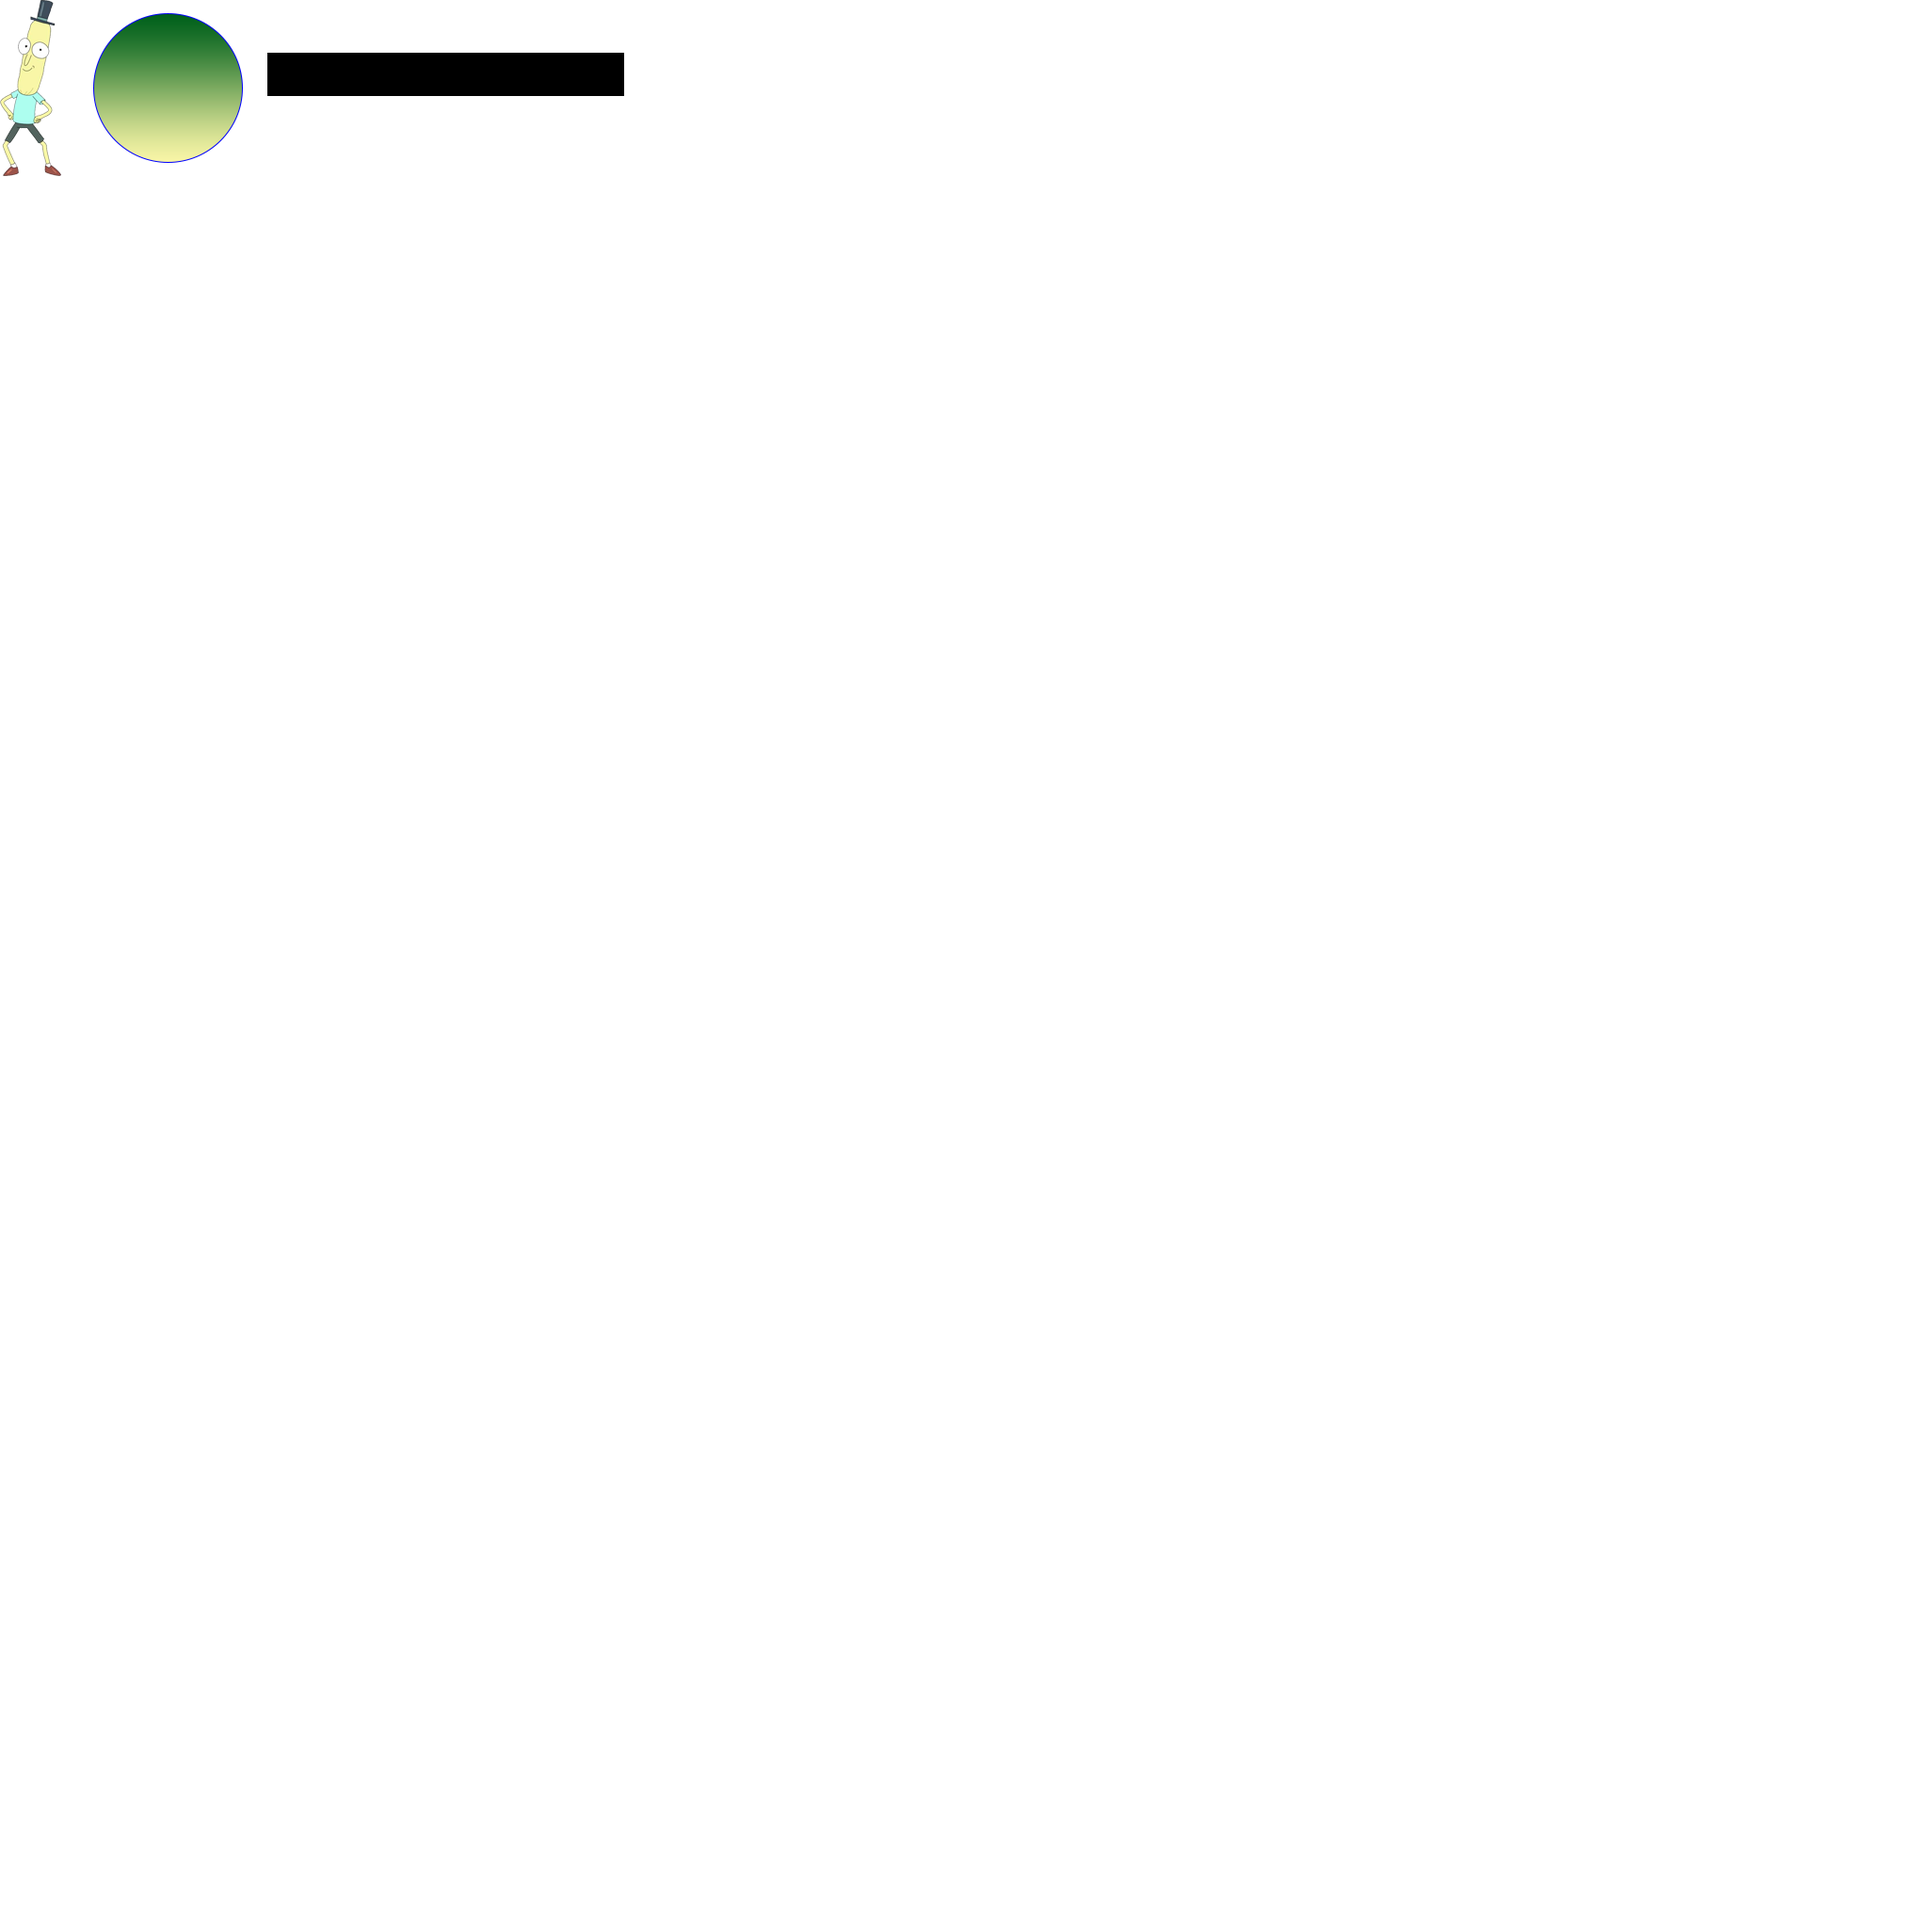
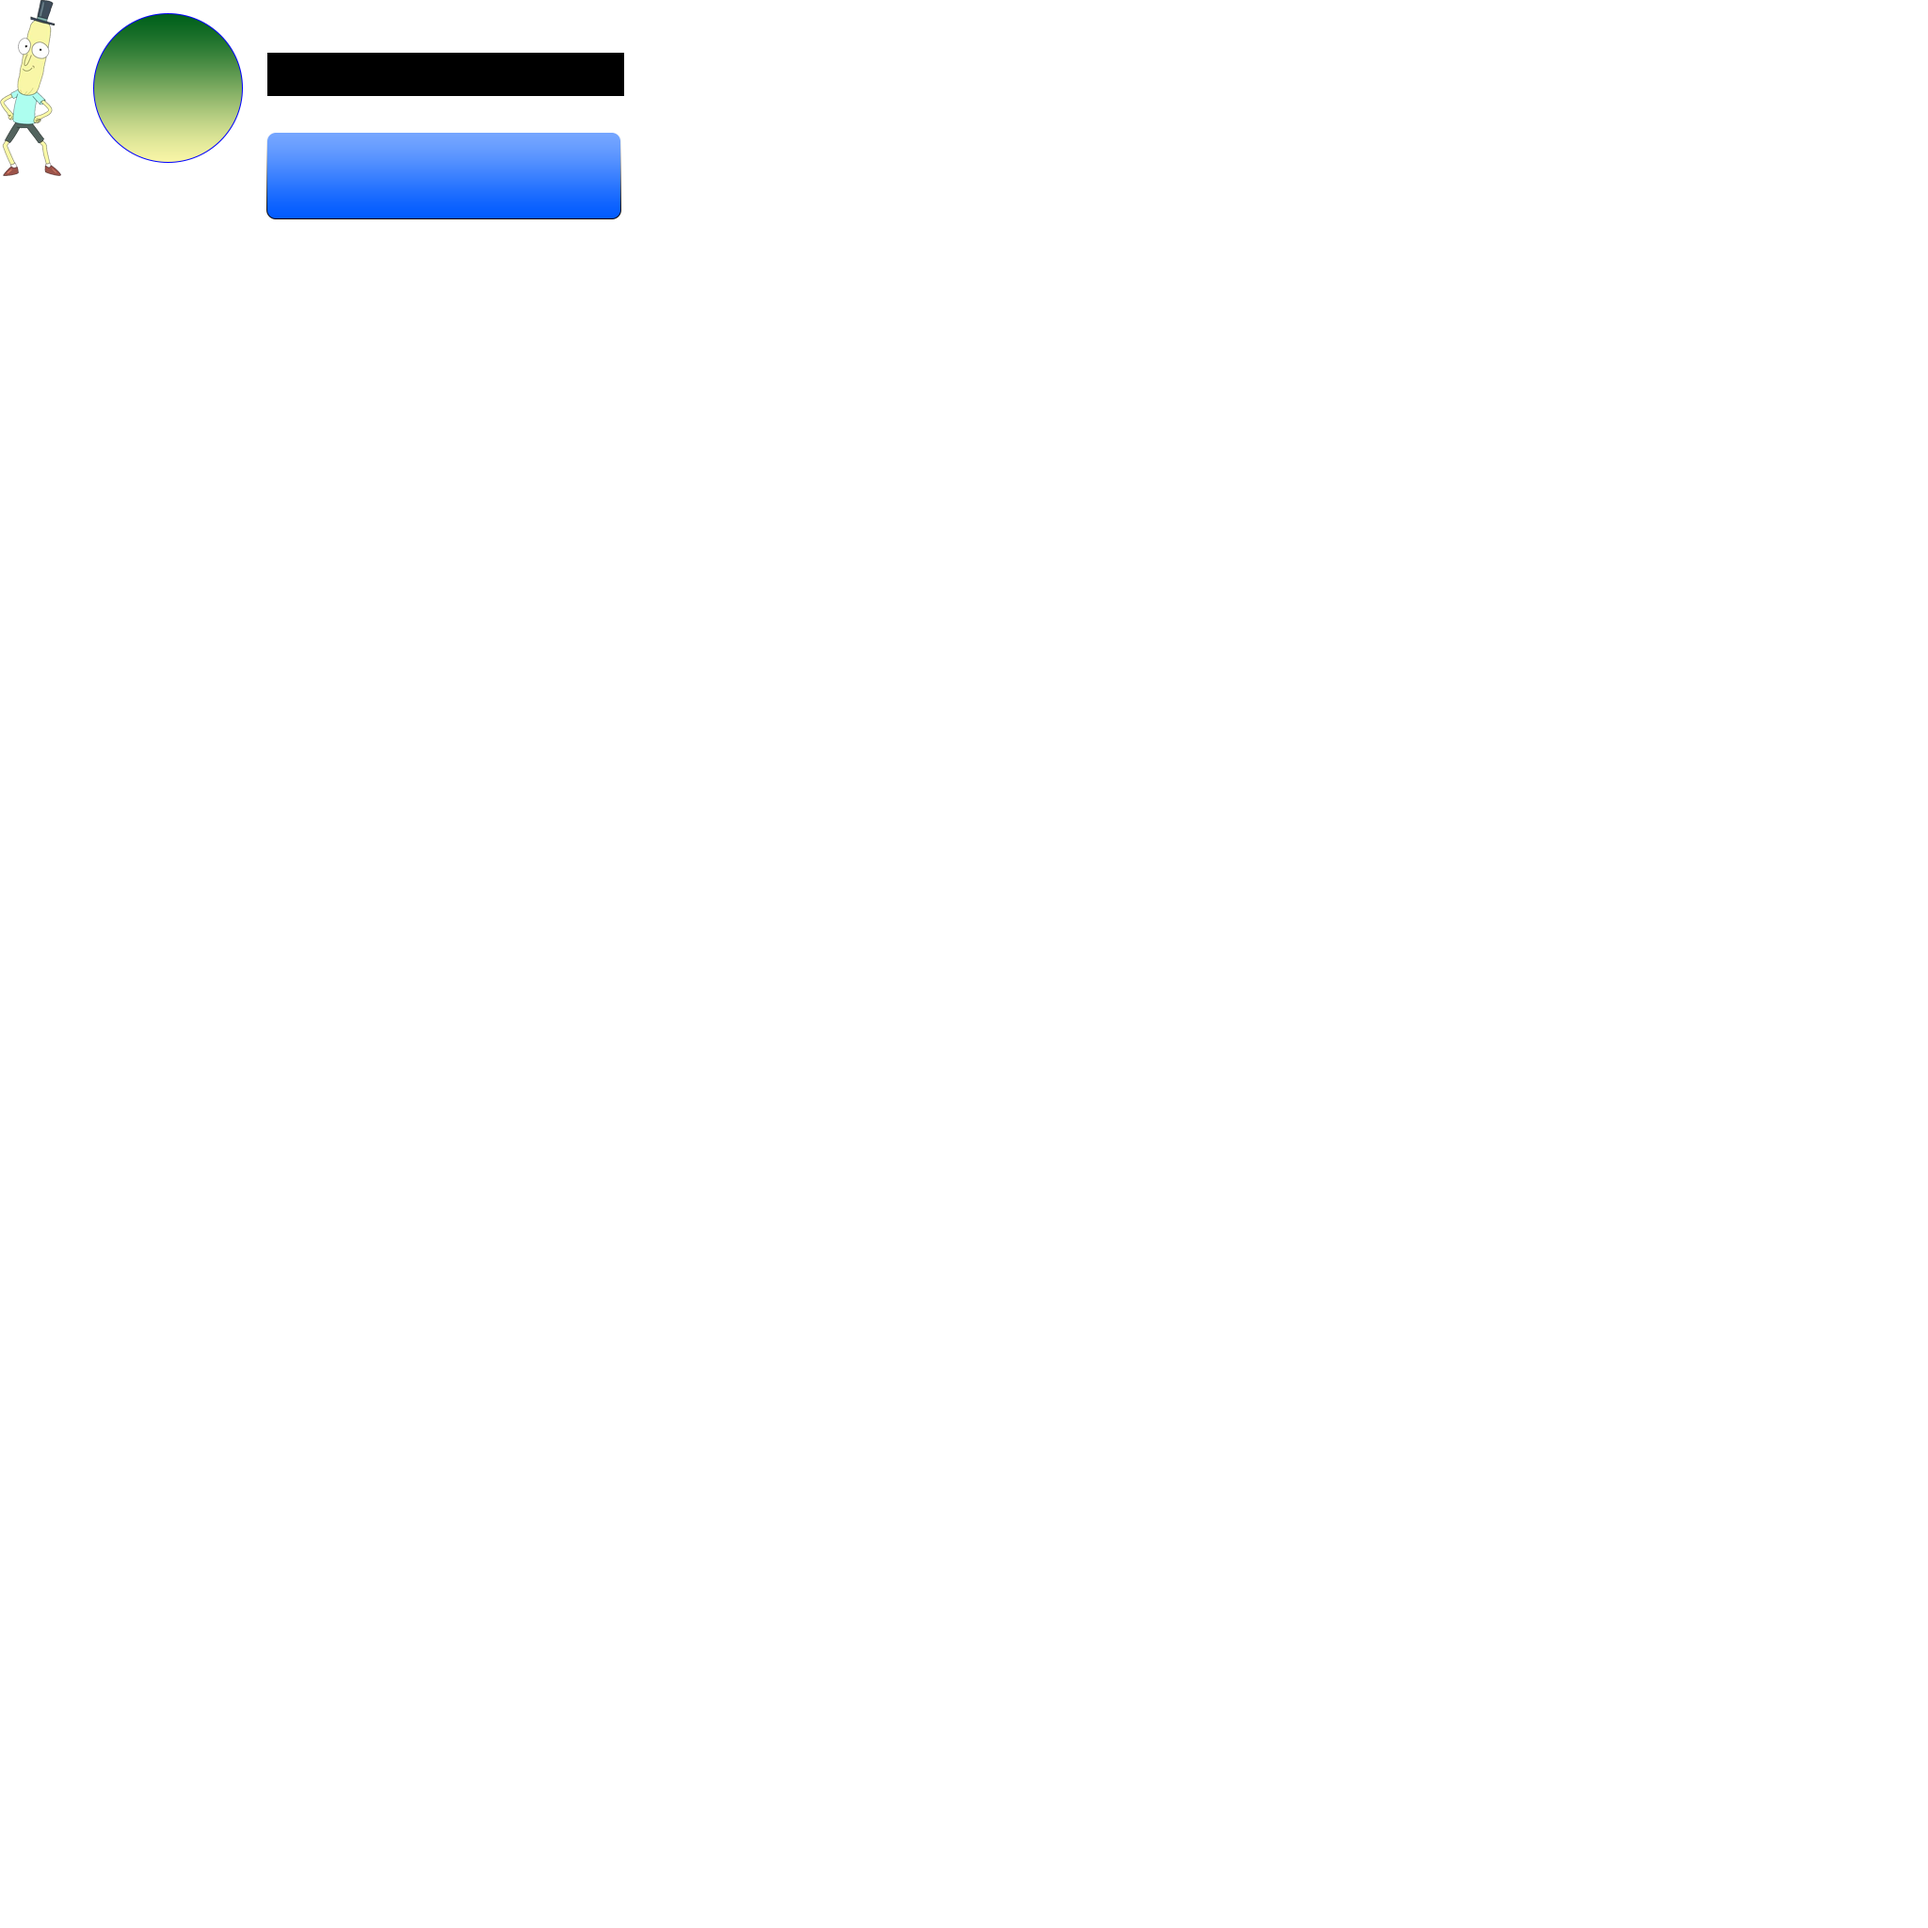
Fixed image binding and swapping
Fixed image binding and swapping Currently-in-use images
Minor bug fixes

Changed region(s): [[0.125, 0.0625, 0.3438, 0.125]]

diff --git a/BekaEngine.py b/BekaEngine.py
@@ -7,7 +7,6 @@ import pygame
 from pygame import mixer
 
 GameObjects = list()
-
 class GameObject:
 
 
@@ -82,7 +81,6 @@ class GameObject:
         glTranslate(self.initialPosition[0], self.initialPosition[1] * 2,self.initialPosition[2])
 
     def Instantiate(self, positionArray = [0,0,0], scaleArray = [1,1,1],Angle = 0):
-        #self.position = positionArray
 
         self.scale = scaleArray
         glScale(scaleArray[0],scaleArray[1],scaleArray[2])
@@ -90,7 +88,6 @@ class GameObject:
 
         if self.RigidBody is not None:
             self.RigidBody.newPos =  [ positionArray[0] * 2,positionArray[1] * 2,positionArray[2] ]
-        #self.move(positionArray,0.01,0.01)
         self.setPos(positionArray)
         self.initialPosition = positionArray
         self.targetPosition = [self.getPos()[0], self.getPos()[1], self.getPos()[2]]
@@ -100,25 +97,27 @@ class GameObject:
 class GameImages:
 
 
-    def __init__(self,imagesCount = 1):
+    def __init__(self,imageNames):
         self.currentImage = 0
         self.imageCount = 0
-        self.images = glGenTextures(imagesCount)
-        glBindTexture(GL_TEXTURE_2D, self.images[0])
-        glTexParameteri(GL_TEXTURE_2D, GL_TEXTURE_MIN_FILTER, GL_LINEAR)
-
-
-    def addImage(self,imageName):
-        glGenTextures(self.imageCount)
-        imgload = pygame.image.load(imageName)
-        img = pygame.image.tostring(imgload, "RGBA", 1)
-        width = imgload.get_width()
-        height = imgload.get_height()
-        glBindTexture(GL_TEXTURE_2D, self.images[self.imageCount - 1])  # Set this image in images array
-        glBindTexture(GL_TEXTURE_2D, self.images[self.currentImage])  # Retrieve last loaded image
-        glTexParameter(GL_TEXTURE_2D, GL_TEXTURE_MIN_FILTER, GL_LINEAR)
-        glTexImage2D(GL_TEXTURE_2D, 0, 4, width, height, 0, GL_RGBA, GL_UNSIGNED_BYTE, img)
+        for imageName in imageNames:
+            self.imageCount += 1
+        self.images = glGenTextures(self.imageCount)
+        i = 0
+        for imageName in imageNames:
+            imgload = pygame.image.load(imageName)
+            img = pygame.image.tostring(imgload, "RGBA", 1)
+            width = imgload.get_width()
+            height = imgload.get_height()
+            glBindTexture(GL_TEXTURE_2D, self.images[i])  # Set this image in images array
+            glTexParameter(GL_TEXTURE_2D, GL_TEXTURE_MAG_FILTER, GL_LINEAR)
+            glTexParameter(GL_TEXTURE_2D, GL_TEXTURE_MIN_FILTER, GL_LINEAR)
+            glTexParameter(GL_TEXTURE_2D, GL_TEXTURE_WRAP_S, GL_REPEAT)
+            glTexParameter(GL_TEXTURE_2D, GL_TEXTURE_WRAP_T, GL_REPEAT)
+            glTexImage2D(GL_TEXTURE_2D, 0, 4, width, height, 0, GL_RGBA, GL_UNSIGNED_BYTE, img)
+            i += 1
         glEnable(GL_TEXTURE_2D)
+        glBindTexture(GL_TEXTURE_2D, self.images[0])
 
     def curImage(self,CurrentImage = 1):
         self.currentImage = CurrentImage
@@ -282,12 +281,13 @@ class SpriteRenderer:
             if self.currentVelocity > maxVelocity:
                 self.currentVelocity = maxVelocity
         else:
-            if math.fabs(distance) > maxVelocity/4: # first term is 0.0005 , second term is 0.0005
+            if math.fabs(distance) > maxVelocity: # first term is 0.0005 , second term is 0.0005
                 #print("Condition occured! math.fabs(distance) > maxVelocity/2")
                 self.currentVelocity = maxVelocity
             else:
                 #print("Condition NOT occured! math.fabs(distance) > maxVelocity/2")
-                self.currentVelocity = 0
+                self.currentVelocity = math.fabs(distance)
+
 
         #print("Current:", current, ", Target: ", realtarget)
         return self.currentVelocity
@@ -312,7 +312,7 @@ class RigidBody:
         self.gravityScale = 1
         self.useGravity = False
         self.angularDrag = 0.01
-        self.linearDrag = 0.05
+        self.linearDrag = 0.5
         self.mass = 1
         self.actvelocity = [0, 0]
         self.freezeRotation = False
@@ -344,13 +344,14 @@ class RigidBody:
         #       Where X     --> X of first vector ( equals 1 )
         #       Where Y     --> Y of first vector ( equals 0 )
         #       Where alpha --> Angle between two vectors ( self.gameObject.GetAngle() )
-        # newVect = [ 1 * math.cos(self.gameObject.getAngle()), -1 * math.sin(self.gameObject.getAngle()) ]        #Unline after test
+        newVect = [ 1 * math.cos(math.radians(self.gameObject.getAngle())), -1 * math.sin(math.radians(self.gameObject.getAngle())) ]        #Unline after test
         #   2/Use this equation after obtaining new vector ( newVect ) to get the angle between both vectors
-        # theta = math.acos( ( ( Direction[0] *  newVect[0] ) + ( Direction[1] * newVect[1] ) ) /  ( ( math.sqrt(( math.pow(Direction[0],2) + math.pow(Direction[1],2) )) )*( ( math.sqrt(( math.pow(newVect[0],2) + math.pow(newVect[1],2) )) ) ) ) )        #Unline after test
+        print("Vector of body rotation: ", newVect)
+        theta = math.acos( ( ( Direction[0] *  newVect[0] ) + ( Direction[1] * newVect[1] ) ) /  ( ( math.sqrt(( math.pow(Direction[0],2) + math.pow(Direction[1],2) )) )*( ( math.sqrt(( math.pow(newVect[0],2) + math.pow(newVect[1],2) )) ) ) ) )        #Unline after test
         #   3/Torque equals Force * r * sin theta
         # Test purpose : r = Test[0] and theta = Test[1]
         #r = Test[0]
-        theta = Test[1]
+        #theta = Test[1]
         torque = Force * r * math.sin(math.radians(theta))
         print("Torque = ", torque, ", math.sin(theta) = ", math.sin(math.radians(theta)), ", Theta = ", theta)
 
@@ -460,4 +461,28 @@ class RigidBody:
 
 
 
+class UI:
 
+    def __init__(self):
+        self.gameObject = GameObject()
+        self.spriteRenderer = SpriteRenderer(self.gameObject)
+        self.type = "button" #Types : "button" , "text"
+        self.HoldingMouse = False
+        self.Hovering = False
+    def Create(self, Type = "button"):
+        if Type is "button":
+            print("I just created a button")
+            self.gameObject.Instantiate()
+            self.gameObject.setScale([5,5,1])
+        elif Type is "text":
+            print("I just created a text")
+    def DrawUI(self,TextureCoordX1 = 0, TextureCoordX2 = 0, TextureCoordY1 = 0, TextureCoordY2 = 0, WidthToHeightRatio = 1, mouseX = 0, mouseY = 0):
+        if self.type is "button":
+            self.spriteRenderer.DrawSprite(TextureCoordX1, TextureCoordX2, TextureCoordY1, TextureCoordY2, WidthToHeightRatio)
+        if mouseX < 500 and mouseX > 300 and mouseY > 375 and mouseY < 426:
+            self.Hovering = True
+            self.spriteRenderer.setColor([0,0.2,0.5,1])
+        else:
+            self.Hovering = False
+            self.spriteRenderer.setColor([0.5, 0.8, 0.3, 1])
+        print("MouseY is: ", mouseY)

diff --git a/Keeper.py b/Keeper.py
@@ -10,6 +10,7 @@ time_interval = 10  # try  1000 msec
 screenwidth = 800
 screenheight = 800
 rotation = 0
+button1 = UI()
 poopy = GameObject()
 poopy.setName("Poopy Butthole")
 rick = GameObject()
@@ -35,17 +36,13 @@ def init():
     sound = mixer.Sound("ohwe.wav")
     #sound.play()
     global gameImages
-    gameImages = GameImages(2)
-    gameImages.addImage("BG.png")
-    gameImages.addImage("pb.png")
+    gameImages = GameImages(["pb.PNG", "BG.png"])
     #poopy.RotateObject(360, 1)
-
+    button1.Create("button")
     gameImages.curImage(0)
     backGround.Instantiate([0,0,0],[1,1,1],0)
     backGround.setScale([20, 20, 1])
-
-    gameImages.curImage(0)
-
+    gameImages.curImage(1)
     poopy.Instantiate([0, 0, 0], [1, 1, 1], 0)
     poopy.smoothDamping = False
     poopy.setScale([1, 1, 1])
@@ -95,11 +92,10 @@ def draw():
     global GameObjects
     global barrb
     global bar
-    #for i in range(len(GameObjects)):
-    #    print("GameObject #", i, ": ", GameObjects[i].name)
+    global button1
     glClear(GL_COLOR_BUFFER_BIT)
     gameImages.curImage(0)
-    backGroundSprite.DrawSprite(0, 1, 1, 0, 1)
+    backGroundSprite.DrawSprite(0, 1, 0, 1, 1)
     backgroundColorChanger()
     backGroundSprite.setColor(bgColor)
     gameImages.curImage(1)
@@ -108,6 +104,7 @@ def draw():
     barsprite.DrawSprite(0.325,0.14,0.95,0.97375,7.7894736842)
     poopyrb.simulate()
     barrb.simulate()
+    button1.DrawUI(0.138,0.323,0.932,0.885,3.972,mouse_x,mouse_y)
     glFlush()
 
 
@@ -177,17 +174,18 @@ def backgroundColorChanger():
 
     bgColor = [bgColor[0] + redChange, bgColor[1] + greenChange, bgColor[2] + blueChange, 1]
 
-
 def PassiveMotionFunc(x, y):  # Moving Mouse Without Holding Button
     global mouse_x
     global mouse_y
     global screenwidth
     global screenheight
+    global mouseX
+    global mouseY
     mouse_x = x
     mouse_y = y
-    rick.move([((mouse_x - (glutGet(GLUT_WINDOW_WIDTH) / 2)) / (glutGet(GLUT_WINDOW_WIDTH) / 4)),
-               (((glutGet(GLUT_WINDOW_HEIGHT) / 2) - mouse_y) / (glutGet(GLUT_WINDOW_HEIGHT) / 2))
-                  ,rick.getPos()[2]],0.05,0.05)
+    #rick.move([((mouse_x - (glutGet(GLUT_WINDOW_WIDTH) / 2)) / (glutGet(GLUT_WINDOW_WIDTH) / 4)),
+     #          (((glutGet(GLUT_WINDOW_HEIGHT) / 2) - mouse_y) / (glutGet(GLUT_WINDOW_HEIGHT) / 2))
+      #            ,rick.getPos()[2]],0.05,0.05)
 
 
 def MotionFunc(x,y):  # Moving Mouse While Holding Button
@@ -252,12 +250,12 @@ def keyboard(key, x, y):
         poopysprite.FlipX()
     if key == b"g":
         poopysprite.FlipY()
-    if key == b"b":
-        barrb.AddForce(0.005,[0,1])
+    if key == b"e":
+        bar.RotateObject(45,0.1)
     if key == b"r":
         barrb.angularDrag = 0.005
-        barrb.AddForceAtPosition(0.003, [1, 0], [0.5, 1], [1, 90])
+        barrb.AddForceAtPosition(0.007, [50, 0], [0.5, 1], [1, 90])
     if key == b"q":
-        barrb.AddForceAtPosition(-0.003, [-1, 0], [0.5, 1], [1, 90])
+        barrb.AddForceAtPosition(-0.007, [50, 0], [0.5, 1], [1, 90])
 
 

diff --git a/SpriteMeasurer.py b/SpriteMeasurer.py
@@ -53,8 +53,8 @@ def MouseMotion(button,state,x,y): #Triggers with both MouseClick Down or Up
         mouseDown = False
         x2 = x
         y2 = y
-        print("X1: ", x1 / glutGet(GLUT_WINDOW_WIDTH), ", X2: ", x2 / glutGet(GLUT_WINDOW_WIDTH), ", Y1: ", y1  / (glutGet(GLUT_WINDOW_HEIGHT)),
-              ", Y2: ", y2  / (glutGet(GLUT_WINDOW_HEIGHT)))
+        print("X1: ", x1 / glutGet(GLUT_WINDOW_WIDTH), ", X2: ", x2 / glutGet(GLUT_WINDOW_WIDTH), ", Y1: ", 1 - (y1  / (glutGet(GLUT_WINDOW_HEIGHT))),
+              ", Y2: ",  1 - (y2  / (glutGet(GLUT_WINDOW_HEIGHT))))
 
 
 def MotionFunc(x,y):  # Mouse While Holding Button
